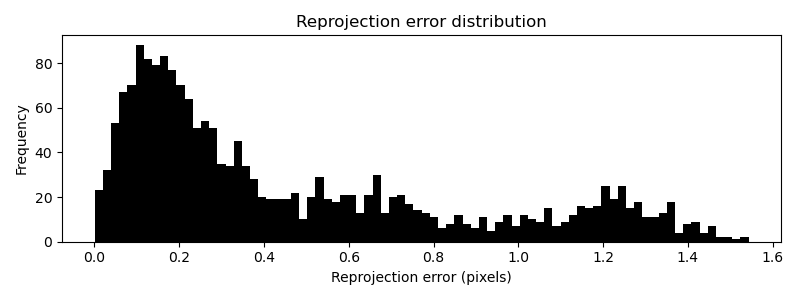
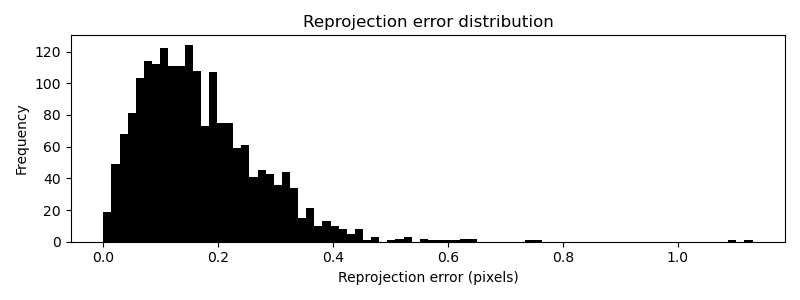
midterm finito

diff --git a/midterm_project/python/quanser.py b/midterm_project/python/quanser.py
@@ -6,16 +6,18 @@ from direct_linear_transform import *
 class Quanser:
     def __init__(self):
         self.K = np.loadtxt('data/K.txt')
-        #self.heli_points = np.loadtxt('data/heli_points.txt').T
         self.XY = np.loadtxt("data/platform_corners_metric.txt")
         # self.XY = np.loadtxt("data/platform_corners_metric_t23.txt") # Task 2.3
+        
         self.platform_to_camera = np.loadtxt('data/platform_to_camera.txt')
-        #self.lengths = np.array([11.45, 32.5, 5, 65, 3])*1e-2
-        self.lengths = np.array([0.112, 0.321, 0.051, 0.661, 0.031])
-        self.heli_points = np.array([[-0.13116262,  0.17766911,  0.43327253, -0.03368243, -0.03428176, -0.02950639, -0.03133537],
-        [-0.0092462 , -0.00968803, -0.01006848, -0.08953217, -0.17767401, 0.21100523,  0.10739365],
-        [ 0.00647913,  0.01080793,  0.01314459, -0.03126685, -0.05092014, -0.0351117 , -0.03136749],
-         [1, 1, 1, 1, 1, 1, 1]])
+
+        #self.lengths = np.array([11.45, 32.5, 5, 65, 3])*1e-2  # Task 1
+        self.lengths = np.array([0.11249212, 0.32140264, 0.0507733,  0.66119392, 0.03120512]) #Task 3.1.1
+
+
+        #self.heli_points = np.loadtxt('data/heli_points.txt').T # Task1
+        self.heli_points = np.loadtxt('data/improved_marker_points.txt').T #Task 3.1.1
+
 
 
     def residuals(self, uv, weights, yaw, pitch, roll):
@@ -160,26 +162,27 @@ class ImprovedQuanser:
 
         #self.heli_points = np.loadtxt('data/heli_points.txt').T
         #self.heli_points = np.loadtxt('data/improved_marker_points.txt').T
-        #self.heli_points = np.loadtxt('data/improved_marker_points_best.txt').T
-        self.heli_points = np.loadtxt('data/marker.txt').T
+        self.heli_points = np.loadtxt('data/marker_points_best.txt').T # Task 3.1.2
 
         #self.lengths = np.array([0.11249211, 0.32140264, 0.05077297, 0.6611940541181118, 0.03120462792288483])
         #self.lengths = np.array([0.109862, 0.32139012, 0.05091132, 0.66160684, 0.03061243])
-        self.lengths = np.array([0.11037847,0.3218341, 0.05072337,  0.66186831,  0.03161999])
+        #self.lengths = np.array([0.11037847,0.3218341, 0.05072337,  0.66186831,  0.03161999])
+        self.lengths = np.array([0.11037847,  0.3218341 ,  0.05072337,  0.66186831,  0.03161999, -0.00233882,  0.01474224]) # Task 3.1.2
+        self.stat_angles = np.array([-0.00251951,  0.00820128, -0.00647965,  0.03738877, -0.00275378, -0.03104896]) # Task 3.1.2
 
 
     def residuals(self, uv, weights, yaw, pitch, roll):
         # Compute the helicopter coordinate frames
         
-        base_to_platform = translate(self.lengths[0]/2, self.lengths[0]/2, 0.0)@rotate_z(yaw)
-        hinge_to_base    = translate(0.00, 0.00,  self.lengths[1])@rotate_y(pitch)
+        base_to_platform = rotate_x(self.stat_angles[0])@rotate_y(self.stat_angles[1]) @ translate(self.lengths[0]/2, self.lengths[0]/2, 0.0)@rotate_z(yaw)
+        hinge_to_base    = rotate_x(self.stat_angles[2])@rotate_z(self.stat_angles[3]) @ translate(self.lengths[5], 0.00,  self.lengths[1])@rotate_y(pitch)
         arm_to_hinge     = translate(0.00, 0.00, -self.lengths[2])
-        rotors_to_arm    = translate(self.lengths[3], 0.00, -self.lengths[4])@rotate_x(roll)
+        rotors_to_arm    = rotate_y(self.stat_angles[4])@rotate_z(self.stat_angles[5]) @ translate(self.lengths[3], self.lengths[6], -self.lengths[4])@rotate_x(roll)
+        
         self.base_to_camera   = self.platform_to_camera@base_to_platform
         self.hinge_to_camera  = self.base_to_camera@hinge_to_base
         self.arm_to_camera    = self.hinge_to_camera@arm_to_hinge
         self.rotors_to_camera = self.arm_to_camera@rotors_to_arm
-        
 
         # Compute the predicted image location of the markers
         p1 = self.arm_to_camera @ self.heli_points[:,:3]
@@ -187,7 +190,6 @@ class ImprovedQuanser:
         uv_hat = project(self.K, np.hstack([p1, p2]))
         self.uv_hat = uv_hat # Save for use in draw()
         
-
         r = np.hstack([(uv_hat[0]-uv[0])*weights[None,:], (uv_hat[1]-uv[1])*weights[None,:]])
 
         return r[0]
@@ -206,7 +208,6 @@ class ImprovedQuanser:
         num_images = detections.shape[0]
 
         r = np.array([])
-        #markers = markers.T
 
         for image_number in range(num_images):
 
@@ -222,15 +223,11 @@ class ImprovedQuanser:
             arm_to_camera    = hinge_to_camera@arm_to_hinge
             rotors_to_camera = arm_to_camera@rotors_to_arm
 
-            # Compute the predicted image location of the markers
             p1 = arm_to_camera @ markers[:,:3]
             p2 = rotors_to_camera @ markers[:,3:]
             uv_hat = project(self.K, np.hstack([p1, p2]))
-            #uv_hat = uv_hat 
-            # uv_hat = 2*7
 
             r = np.append(r, np.hstack([(uv_hat[0]-uv[0])*weights[None,:], (uv_hat[1]-uv[1])*weights[None,:]]))
-            
 
         return r
 
@@ -258,12 +255,10 @@ class ImprovedQuanser:
         self.arm_to_camera    = self.hinge_to_camera@arm_to_hinge
         self.rotors_to_camera = self.arm_to_camera@rotors_to_arm
 
-        # Compute the predicted image location of the markers
         p1 = self.arm_to_camera @ markers[:,:3]
         p2 = self.rotors_to_camera @ markers[:,3:]
         uv_hat = project(self.K, np.hstack([p1, p2]))
         self.uv_hat = uv_hat # Save for use in draw()
-        # uv_hat = 2*7
 
         r = np.append(r, np.hstack([(uv_hat[0]-uv[0])*weights[None,:], (uv_hat[1]-uv[1])*weights[None,:]]))
        

diff --git a/midterm_project/python/part1.py b/midterm_project/python/part1.py
@@ -32,18 +32,11 @@ for image_number in range(run_until):
     uv = np.vstack((detections[image_number, 1::3], detections[image_number, 2::3]))
     print("im nr: ", image_number)
 
-    # Tip:
-    # 'uv' is a 2x7 array of detected marker locations.
-    # It is the same size in each image, but some of its
-    # entries may be invalid if the corresponding markers were
-    # not detected. Which entries are valid is encoded in
-    # the 'weights' array, which is a 1D array of length 7.
-
-    # Tip:
-    # Make your optimization method accept a lambda function
-    # to compute the vector of residuals. You can then reuse
-    # the method later by passing a different lambda function.
+    #Task 1 and 3.1.1(dependant on lengths and markers)
     residualsfun = lambda p : quanser.residuals(uv, weights, p[0], p[1], p[2])
+
+    #Task 3.1.2
+    #residualsfun = lambda p : improvedQuanser.residuals(uv, weights, p[0], p[1], p[2])
 
     # Task 1.3:
     # Implement gauss_newton (see methods.py).
@@ -53,27 +46,18 @@ for image_number in range(run_until):
         print("image nr: ", image_number)
     """
 
-
     #p = gauss_newton(residualsfun, p, printbool)
 
     p = levenberg_marquardt(residualsfun,p)
-
-    # Note:
-    # The plotting code assumes that p is a 1D array of length 3
-    # and r is a 1D array of length 2n (n=7), where the first
-    # n elements are the horizontal residual components, and
-    # the last n elements the vertical components.
 
     r = residualsfun(p)
     all_residuals.append(r)
     trajectory[image_number, :] = p
     if image_number == visualize_number:
         print('Residuals on image number', image_number, r)
-        quanser.draw(uv, weights, image_number)
-
-# Note:
-# The generated figures will be saved in your working
-# directory under the filenames out_*.png.
+        quanser.draw(uv, weights, image_number) #Task 1 or 3.1.1
+        #improvedQuanser.draw(uv, weights, image_number) # Task 3.1.2
+        
 
 generate_quanser_summary(trajectory, all_residuals, detections)
 plt.show()

diff --git a/midterm_project/python_2/quanser2.py b/midterm_project/python_2/quanser2.py
@@ -5,13 +5,13 @@ from common import *
 class Quanser2:
     def __init__(self):
         self.K = np.loadtxt('midterm_project/data/K.txt')
-        self.heli_points = np.loadtxt('midterm_project/data/heli_points.txt').T
-    #     self.heli_points = np.array([[-0.13116262,  0.17766911,  0.43327253, -0.03368243, -0.03428176, -0.02950639, -0.03133537],
-    #    [-0.0092462 , -0.00968803, -0.01006848, -0.08953217, -0.17767401, 0.21100523,  0.10739365],
-    #    [ 0.00647913,  0.01080793,  0.01314459, -0.03126685, -0.05092014, -0.0351117 , -0.03136749],
-    #     [1, 1, 1, 1, 1, 1, 1]])
+        #self.heli_points = np.loadtxt('midterm_project/data/heli_points.txt').T
+        self.heli_points = np.array([[-0.13116262,  0.17766911,  0.43327253, -0.03368243, -0.03428176, -0.02950639, -0.03133537],
+         [-0.0092462 , -0.00968803, -0.01006848, -0.08953217, -0.17767401, 0.21100523,  0.10739365],
+         [ 0.00647913,  0.01080793,  0.01314459, -0.03126685, -0.05092014, -0.0351117 , -0.03136749],
+         [1, 1, 1, 1, 1, 1, 1]])
         self.platform_to_camera = np.loadtxt('midterm_project/data/platform_to_camera.txt')
-        #self.lengths = np.array([0.112, 0.321, 0.051, 0.661, 0.031])
+        self.lengths = np.array([0.112, 0.321, 0.051, 0.661, 0.031])
 
     def calculate_uv_hat(self, p, angles, K):
         base_to_platform = rotate_x(p[28]) @ rotate_y(p[29]) @ translate(p[0]/2,p[0]/2, 0.0) @ rotate_z(angles[0])

diff --git a/midterm_project/python/Part3_improved.py b/midterm_project/python/Part3_improved.py
@@ -51,24 +51,24 @@ print(f"\nLengths:\n {p[:7]}")
 print(f"\nMarkers:\n {p[7:28].reshape(7,3)}")
 print(f"\nStatic Angles:\n {p[28:34]}")
 
+
+
 """
-
-Iterations: 60
-
 Lengths:
-[ 0.109862    0.32139012  0.05091132  0.66160684  0.03061243 -0.00259357 0.0037901 ]
+[0.11037847,  0.3218341 ,  0.05072337,  0.66186831,  0.03161999, -0.00233882,  0.01474224]
 
 Markers:
- [[-0.13053376 -0.02438211  0.00670227]
- [ 0.17817365 -0.02209708  0.01064194]
- [ 0.4339905  -0.02010201  0.01266714]
- [-0.03106559 -0.08698486 -0.03808854]
- [-0.02950414 -0.17350838 -0.06374418]
- [-0.03430902  0.21272357 -0.02141904]
- [-0.03351442  0.10932655 -0.02474112]]
+    [[-0.13064549, -0.00979059,  0.00658394],
+       [ 0.17822714, -0.01220431,  0.0110655 ],
+       [ 0.43418592, -0.01417044,  0.01353566],
+       [-0.03100851, -0.08856472, -0.03438397],
+       [-0.02945179, -0.17614164, -0.05638121],
+       [-0.03422383,  0.21175494, -0.03036017],
+       [-0.03344751,  0.10824166, -0.02932079]]
 
 Static Angles:
- [-1.88732260e-03  8.69393423e-03 -5.11582505e-02  2.13863939e-02
- -8.96868891e-05 -1.53384656e-02]
+[-0.00251951  0.00820128 -0.00647965  0.03738877 -0.00275378 -0.03104896]
+
+
 
 """

diff --git a/midterm_project/python/methods.py b/midterm_project/python/methods.py
@@ -29,6 +29,7 @@ def jacobian3(residualsfun, p, epsilon, l, m, n):
     J = np.zeros((l,2*n,3))
     for image in range(l):
         Ji = np.zeros((2*n, 3))
+
         for j in range(3):
             p2 = np.hstack([p[:m], p[(m + 3*image):(m + 3*(image+1))]])
             e = np.zeros(m+3)
@@ -154,9 +155,6 @@ def levenberg_marquardt2(residualsfun, residualsfun_individual, p0, m, printbool
     A22 = J2.T @ J2
 
     mu = np.max((np.max(np.diag(A11)), np.max(np.diag(A22)))) * 1e-3
-   
-
-    print("started")
 
     for iteration in range(num_iterations):
 

diff --git a/midterm_project/python/part3.py b/midterm_project/python/part3.py
@@ -53,7 +53,6 @@ uv = np.vstack((detections[:, 1::3], detections[:, 2::3]))
 residualsfun2 = lambda p : quanser.residuals3(detections, p)
 residualsfun_individual = lambda p, image_number : quanser.residuals_individual(detections, p,image_number)
 
-print("forbi")
 
 m = len(init_lengths) + 7*3 # num static variables (lengths + markers in 3D)
 

diff --git a/midterm_project/python/part2.py b/midterm_project/python/part2.py
@@ -11,6 +11,7 @@ if __name__ == "__main__":
     uv = np.loadtxt("data/platform_corners_image.txt")
     # XY = np.loadtxt("data/platform_corners_metric_t23.txt") # Task 2.3
     # uv = np.loadtxt("data/platform_corners_image_t23.txt") # Task 2.3
+    
     K = np.loadtxt("data/K.txt")
     T_truth = np.loadtxt("data/platform_to_camera.txt")
 
